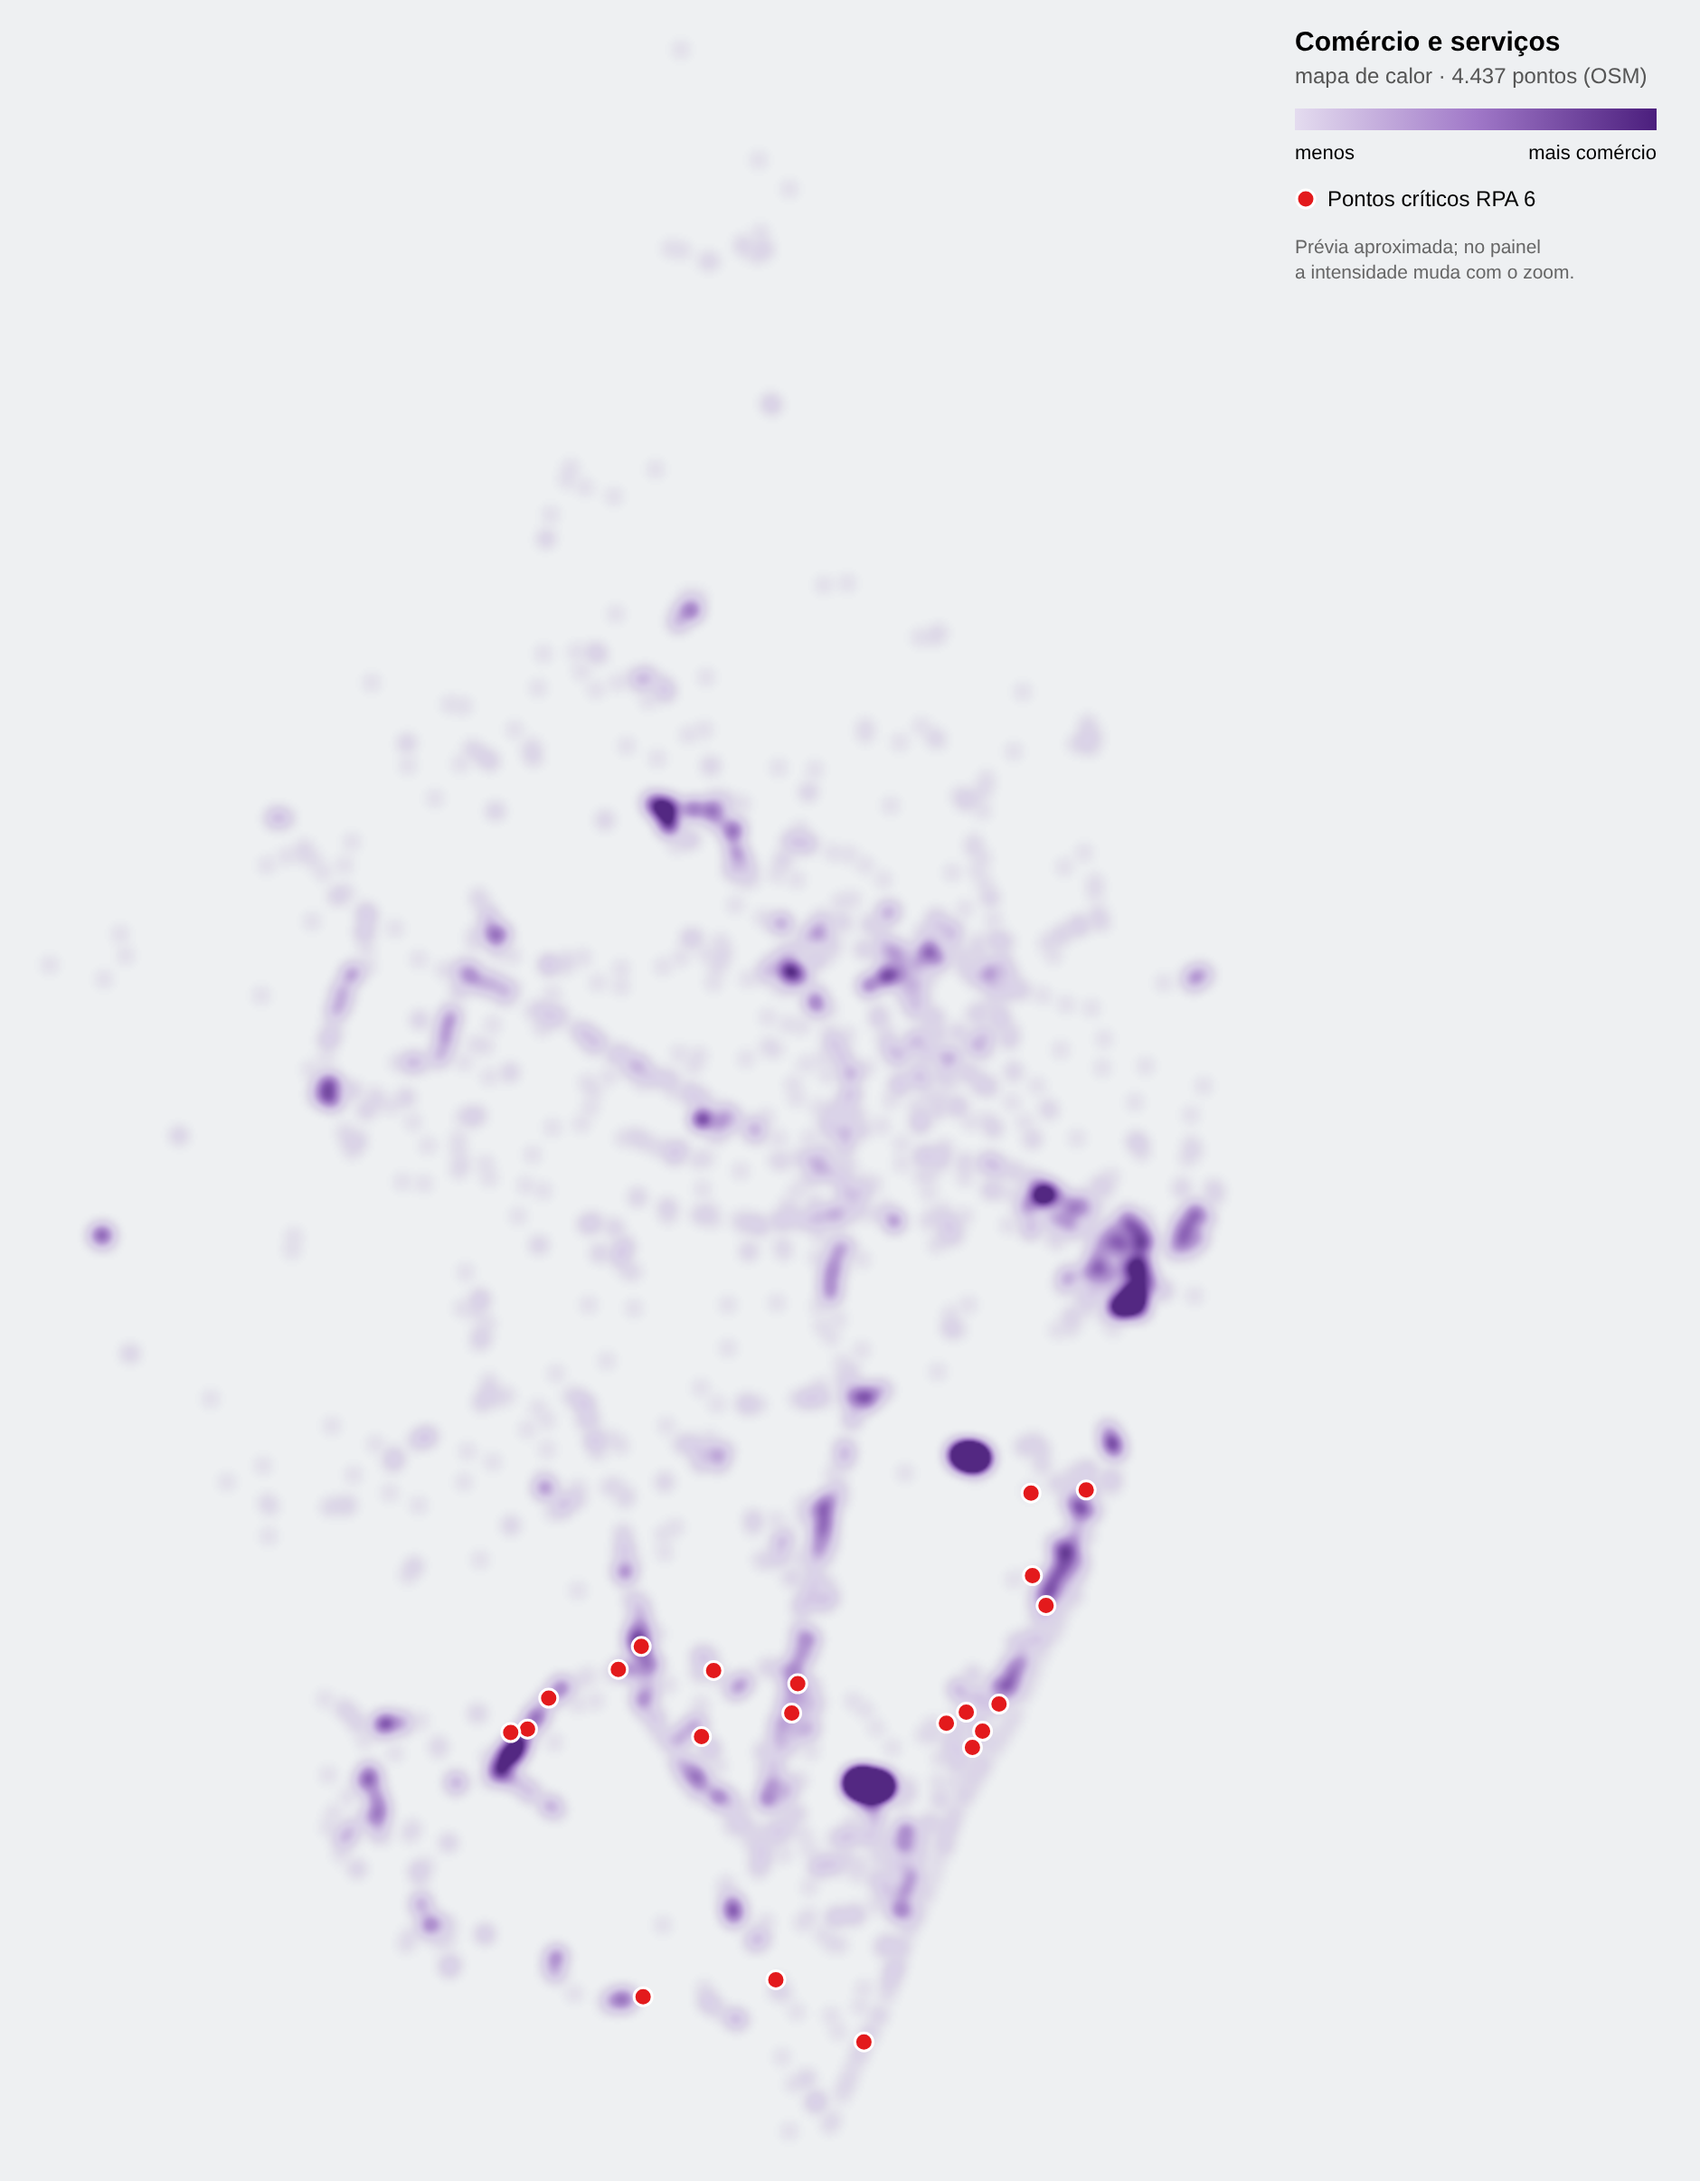
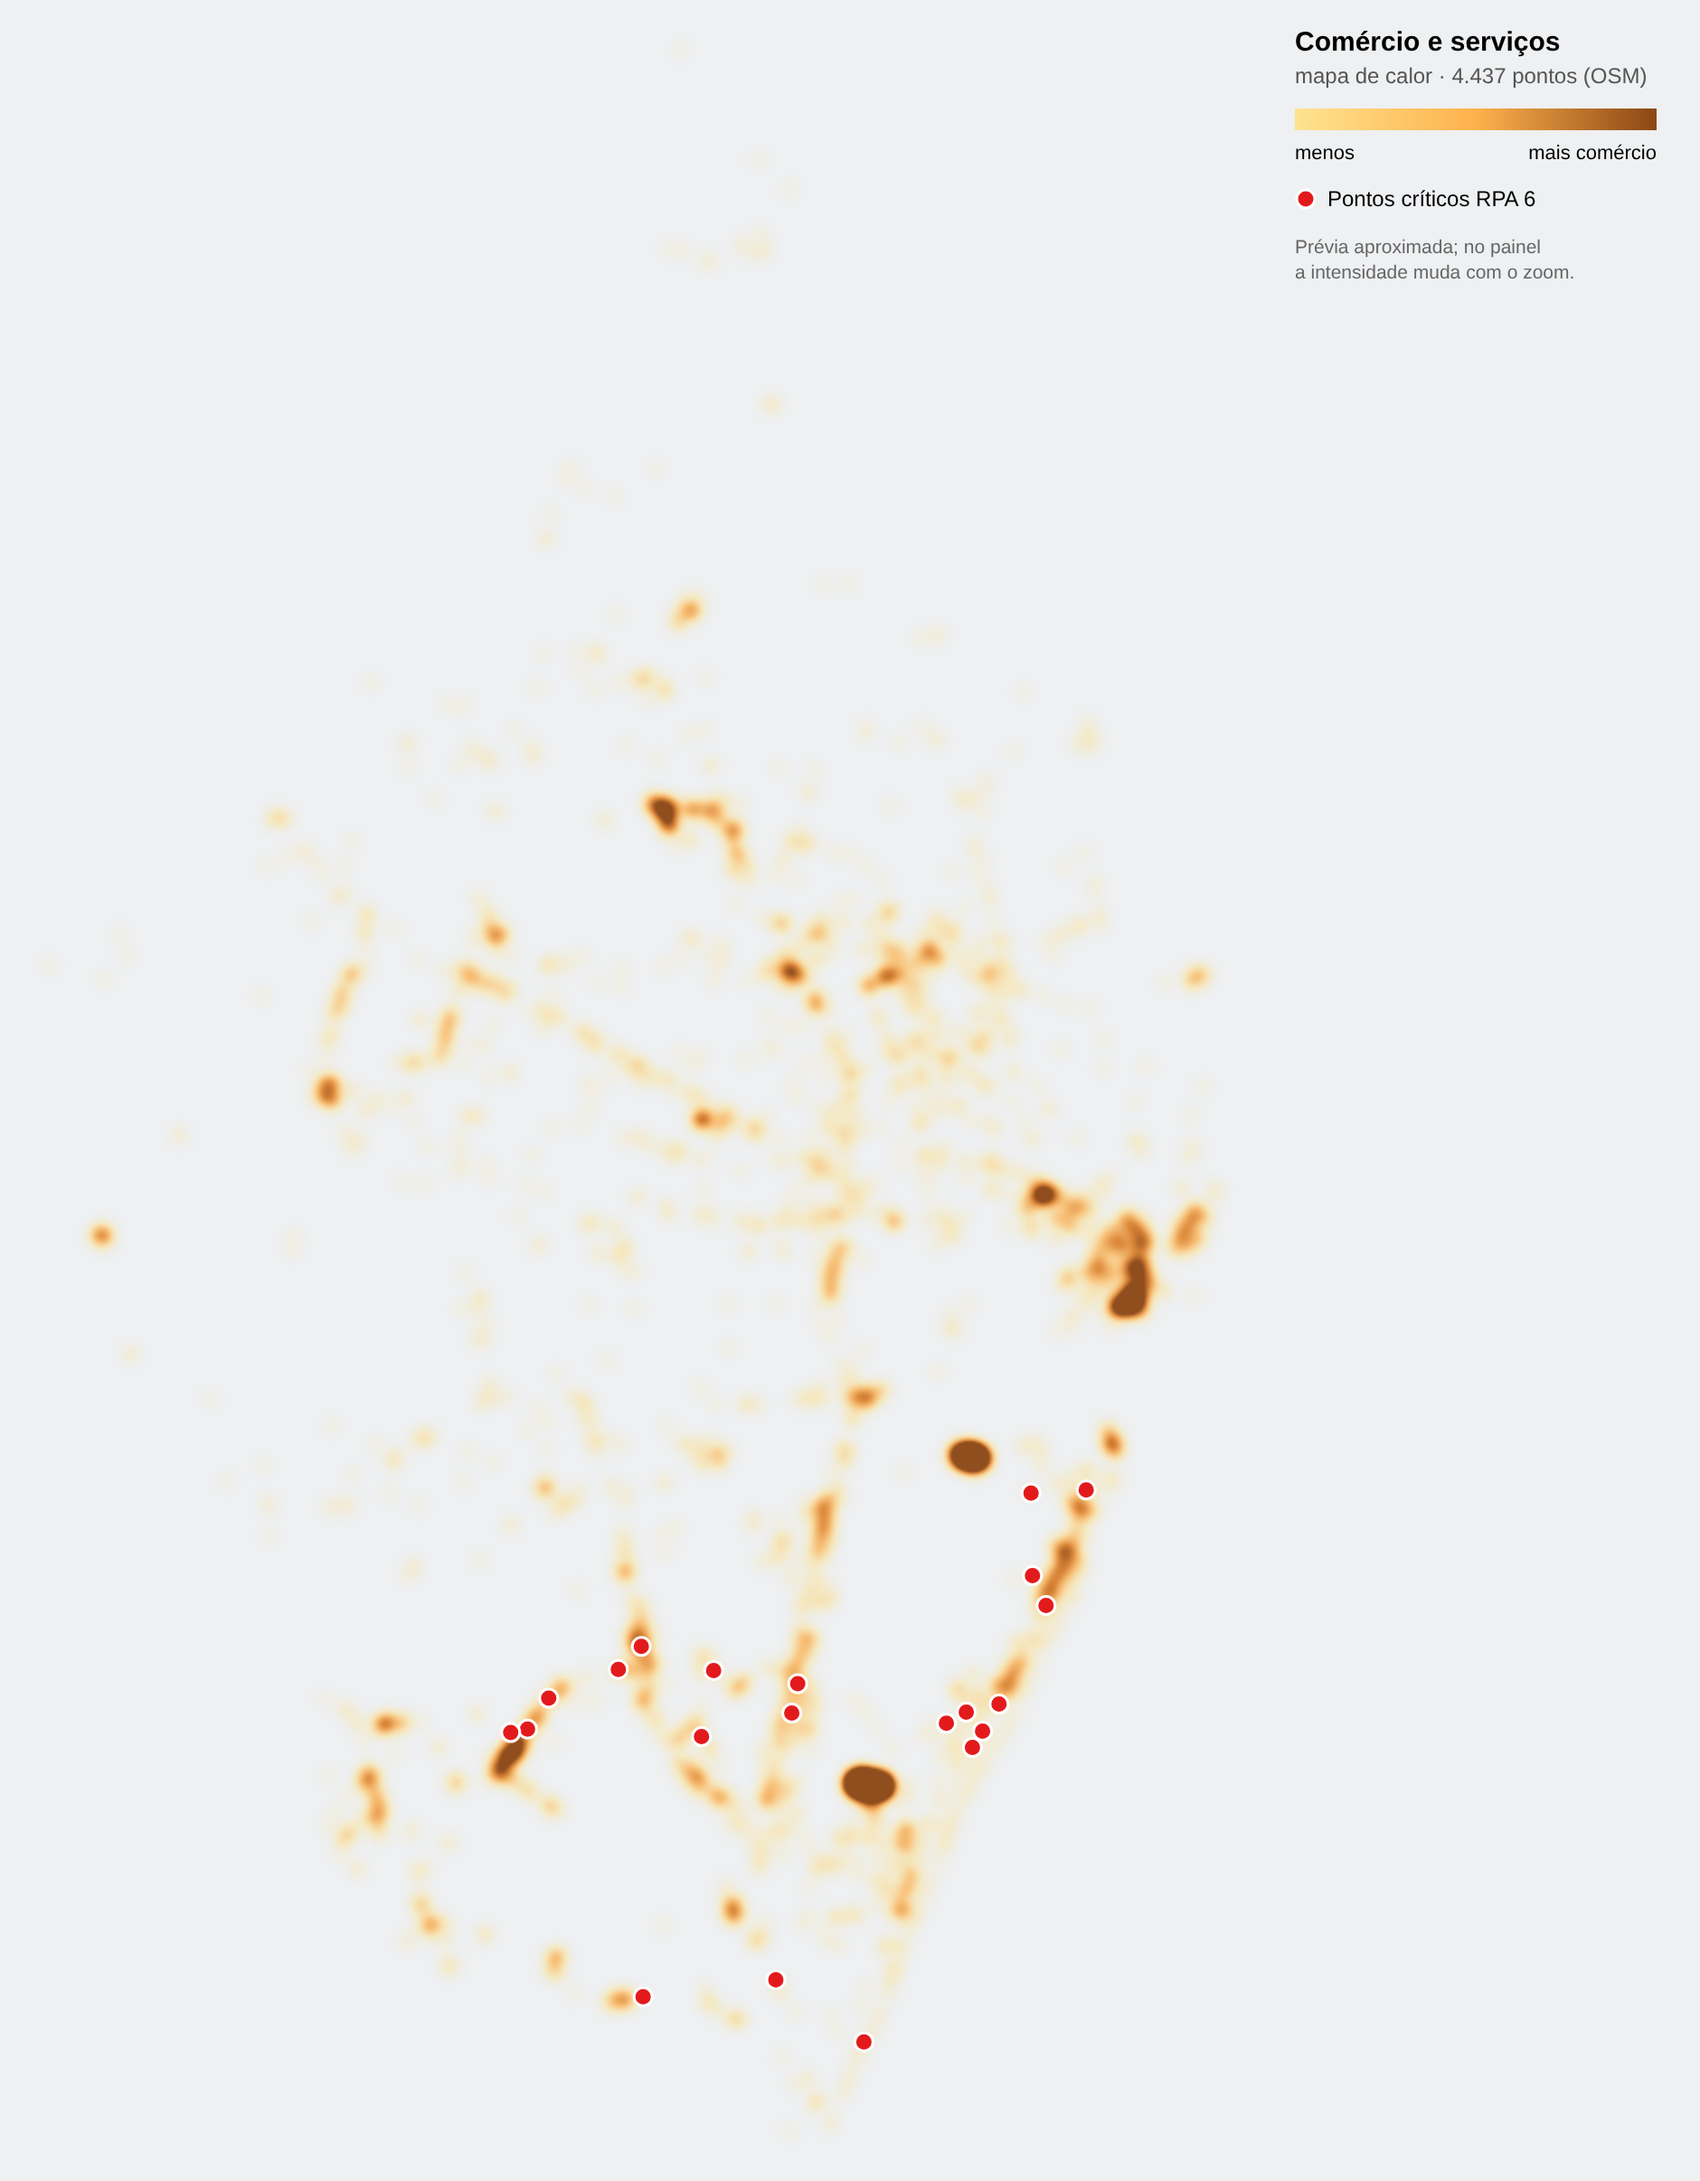
Mapa de calor do comércio em âmbar e coluna Exposição (versão 16) (#20)
* Painel: mapa de calor do comércio em âmbar

Claude-Session: https://claude.ai/code/session_015uXSMUsJFdH235wUCLtmYr

* Painel: coluna do comércio passa a se chamar Exposição; versão 16 registrada

Claude-Session: https://claude.ai/code/session_015uXSMUsJFdH235wUCLtmYr

---------

diff --git a/appscript/JsPontosCriticos.html b/appscript/JsPontosCriticos.html
@@ -182,8 +182,8 @@
   /* Mapa de calor do comércio e serviços (04/11/2026, pedido de Pedro): 4.437 pontos do OpenStreetMap (lojas,
      alimentação, mercados e shoppings, bancos, farmácias e postos), em DadosComercio.html (scripts/gerar_comercio.py).
      Dado colaborativo, não conferido e incompleto nos bairros periféricos: mostra onde há comércio mapeado.
-     Camada de feições no navegador (o mapa de calor do ArcGIS só funciona em FeatureLayer). Roxo, para não
-     confundir com o vermelho do risco nem com o azul da água. Fica por baixo da infraestrutura e dos pontos. */
+     Camada de feições no navegador (o mapa de calor do ArcGIS só funciona em FeatureLayer). Âmbar (amarelo →
+     laranja → marrom; escolha de Pedro, 04/11/2026, no lugar do roxo), sem vermelho (risco) nem azul (água). Fica por baixo da infraestrutura e dos pontos. */
   var COMERCIO_TITULO = "Comércio e serviços (mapa de calor)";
   var COMERCIO_DADOS = typeof COMERCIO === "undefined" ? null : COMERCIO;
   var comercioLayer = COMERCIO_DADOS ? new FeatureLayer({
@@ -197,16 +197,16 @@
     popupEnabled: false,
     renderer: { type: "heatmap", radius: 12, maxDensity: 0.02, minDensity: 0,
       colorStops: [
-        { ratio: 0,    color: "rgba(142, 111, 179, 0)" },
-        { ratio: 0.12, color: "rgba(196, 176, 222, 0.45)" },
-        { ratio: 0.35, color: "rgba(160, 120, 200, 0.70)" },
-        { ratio: 0.65, color: "rgba(120, 70, 170, 0.85)" },
-        { ratio: 1,    color: "rgba(75, 30, 125, 0.95)" }
+        { ratio: 0,    color: "rgba(254, 227, 145, 0)" },
+        { ratio: 0.12, color: "rgba(254, 227, 145, 0.45)" },
+        { ratio: 0.35, color: "rgba(254, 178, 76, 0.70)" },
+        { ratio: 0.65, color: "rgba(217, 118, 26, 0.85)" },
+        { ratio: 1,    color: "rgba(140, 70, 20, 0.95)" }
       ] }
   }) : null;
   if(comercioLayer){
     SWATCH_PROJETO[COMERCIO_TITULO] = '<svg width="16" height="12" viewBox="0 0 16 12"><defs><linearGradient id="gcom" x1="0" x2="1">' +
-      '<stop offset="0" stop-color="#C4B0DE"/><stop offset=".5" stop-color="#A078C8"/><stop offset="1" stop-color="#4B1E7D"/>' +
+      '<stop offset="0" stop-color="#FEE391"/><stop offset=".5" stop-color="#FEB24C"/><stop offset="1" stop-color="#8C4614"/>' +
       '</linearGradient></defs><rect x="1" y="1" width="14" height="10" rx="2" fill="url(#gcom)"/></svg>';
     map.add(comercioLayer);
   }

diff --git a/appscript/JsMapa.html b/appscript/JsMapa.html
@@ -609,8 +609,8 @@
     }
     jaMostradas = jaMostradas.concat(colunaTema("Vulnerabilidade",
       [camadaPorNome(/bairro/i), camadaPorNome(/^zeis\b/i), camadaPorNome(/^cis\b/i)]));
-    // Coluna "Economia" (04/11/2026): mapa de calor do comércio e serviços (OSM).
-    if(comercioLayer) jaMostradas = jaMostradas.concat(colunaTema("Economia", [comercioLayer]));
+    // Coluna "Exposição" (04/11/2026; antes "Economia", nome trocado por Pedro): mapa de calor do comércio e serviços (OSM).
+    if(comercioLayer) jaMostradas = jaMostradas.concat(colunaTema("Exposição", [comercioLayer]));
     // Coluna 4, "Pontos críticos de alagamento" (Pedro, 04/11/2026): os pontos, as ligações com as obras e os anéis.
     jaMostradas = jaMostradas.concat(colunaTema("Pontos críticos de alagamento", [pontosLayer, ligacoesLayer, aneisLayer]));
     pular = jaMostradas.concat(CAMADAS_OCULTAS);   // daqui em diante, as já mostradas não se repetem (nem dentro dos grupos do WebMap)

diff --git a/docs/08-painel.md b/docs/08-painel.md
@@ -64,6 +64,7 @@ não conectado.
   Ainda em 04/11/2026, **versão 13** ("Cores suaves na Classificação de vias"), publicada pelo Claude a pedido de Pedro (PR #17).
   **Versão 14** (04/11/2026, "Cores das vias funcionando (símbolos CIM)"): na v13 as cores não apareciam; conferido por Pedro na URL de teste antes de publicar.
   **Versão 15** (04/11/2026, "Mapa de calor do comércio e serviços (OSM)"), publicada pelo Claude a pedido de Pedro.
+  **Versão 16** (04/11/2026, "Mapa de calor do comércio em âmbar, coluna Exposição"), publicada pelo Claude depois de Pedro aprovar o âmbar.
 - **Link da equipe (versão publicada):**
   https://script.google.com/macros/s/AKfycbxXh5HsuhaBBF7z4-8f3bZvksWa7lRuzbj6vA9lLqX87GQlvXhWiluTtG8OTyLYxoXE/exec
 - 02/10/2026: primeiro `clasp push` (pontos críticos lidos da planilha,
@@ -274,8 +275,8 @@ sem notas (ficam no fim da tabela).
   mantidas. O console do navegador lista os tipos encontrados.
   1ª versão (v13) não mudou nada no mapa (Pedro). Correção: troca também símbolos CIM (`cimSymbolUtils`), tira
   variáveis visuais de cor e trata subcamadas de "map-image". O console mostra "Vias: ..." com o tipo da camada.
-- **Coluna "Economia"** (Pedro, 04/11/2026): "Comércio e serviços (mapa de calor)", 4.437 pontos do OpenStreetMap
-  (`comercioLayer` em `JsPontosCriticos.html`, FeatureLayer no navegador com renderer `heatmap` em roxo; dados em
+- **Coluna "Exposição"** (Pedro, 04/11/2026; de início chamada "Economia"): "Comércio e serviços (mapa de calor)", 4.437 pontos do OpenStreetMap
+  (`comercioLayer` em `JsPontosCriticos.html`, FeatureLayer no navegador com renderer `heatmap` em âmbar, amarelo → laranja → marrom, escolhido por Pedro no lugar do roxo; dados em
   `DadosComercio.html`, de `scripts/gerar_comercio.py`). Por baixo da infraestrutura e dos pontos. Prévia:
   `docs/img/comercio_calor_previa.png`. As manchas mais fortes são shoppings (lojas mapeadas uma a uma).
 - Próximas colunas: a combinar com Pedro.

diff --git a/docs/03-fontes-de-dados.md b/docs/03-fontes-de-dados.md
@@ -78,7 +78,7 @@ out geom;
 ```
 
 ## Comércio e serviços (OpenStreetMap, 04/11/2026)
-Para o mapa de calor do painel (coluna "Economia"). Os dados do Google Maps (Places) **não** foram usados: os termos
+Para o mapa de calor do painel (coluna "Exposição"). Os dados do Google Maps (Places) **não** foram usados: os termos
 do Google não permitem baixar os lugares para uma camada própria. Consulta para o
 [Overpass Turbo](https://overpass-turbo.eu) (Executar → Exportar → GeoJSON). Salvar em `dados/brutos/osm/` e rodar
 `python3 scripts/gerar_comercio.py --geojson dados/brutos/osm/<arquivo>.geojson --data AAAA-MM-DD`
